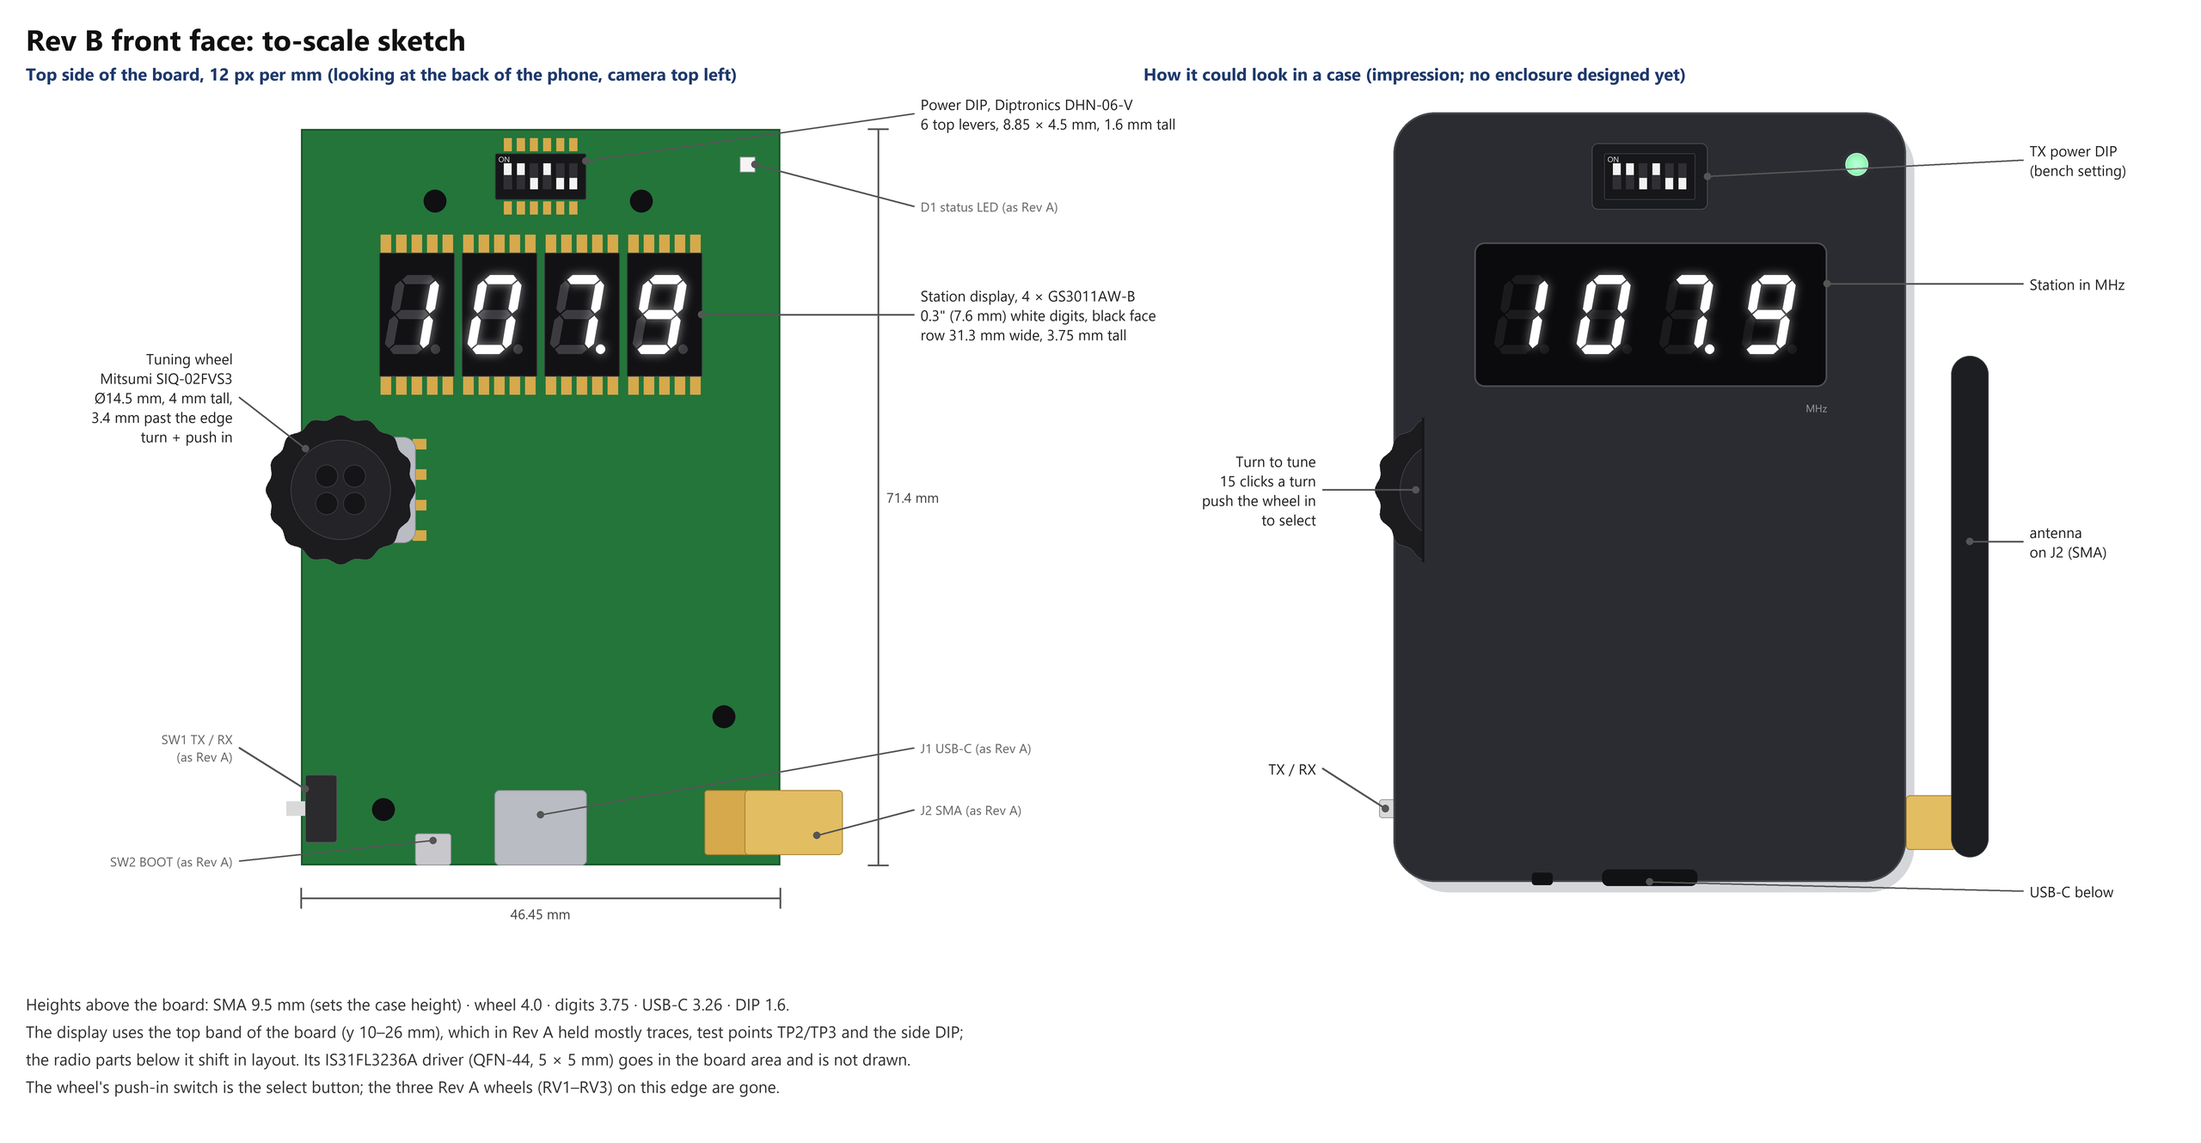
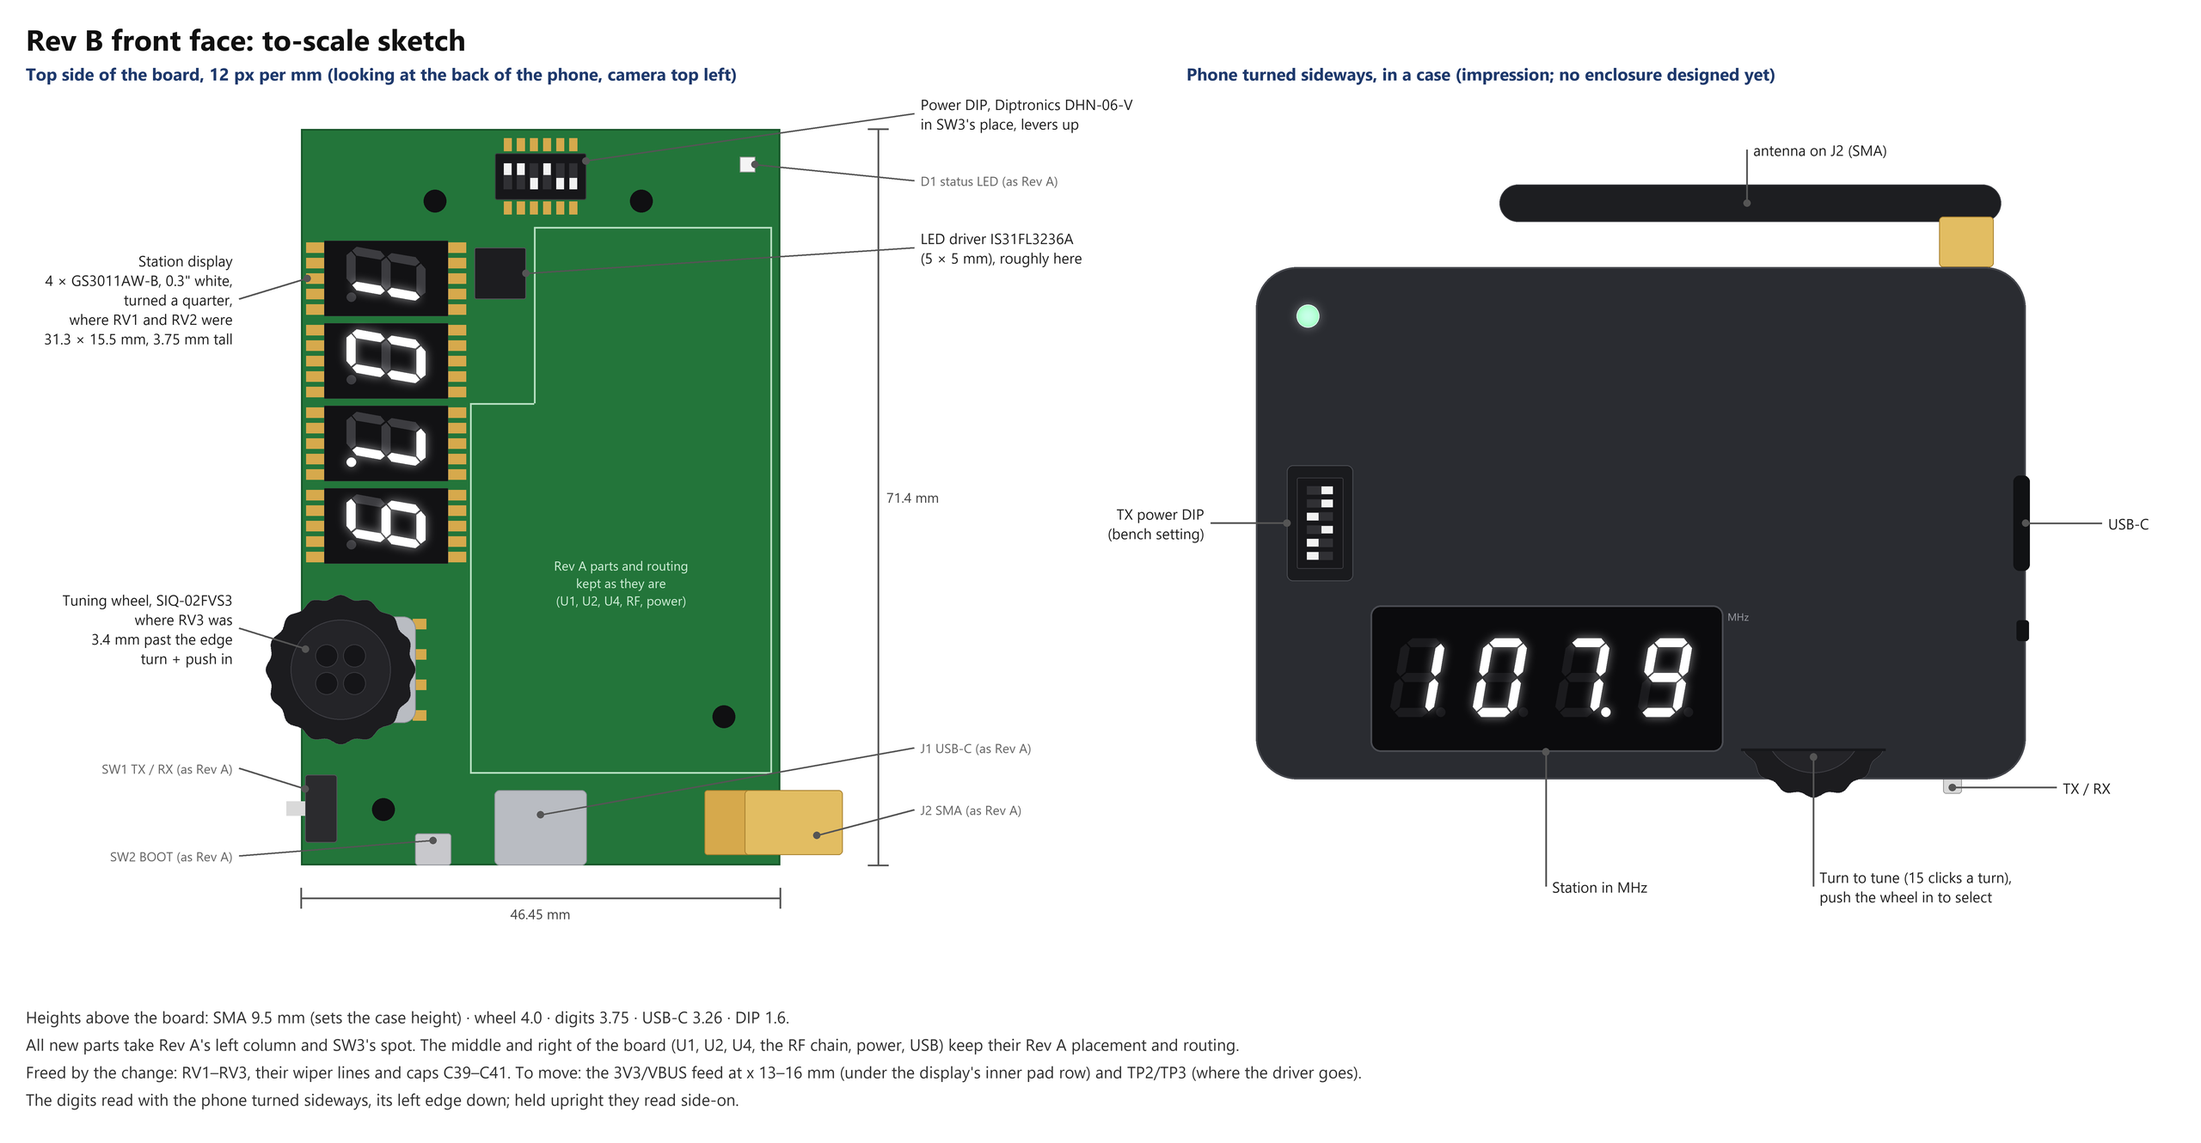
Rev B front face: new parts in Rev A's left column (digits turned where RV1/RV2 were, wheel at RV3, DIP at SW3), rest of the board kept

diff --git a/tools/rev_b_front_sketch.py b/tools/rev_b_front_sketch.py
@@ -1,7 +1,9 @@
 """Rev B front face: a to-scale sketch of the board's top side with the new tuning wheel, station display and power DIP,
-beside an impression of the finished unit. Sizes from the datasheets in docs/datasheets/rev-b (SIQ-02FVS3 p3,
-GS3011AW-B p2 and p5, DHN-06-V p1); the edge parts that stay (J1, J2, SW1, SW2, D1) and the mounting holes where
-Rev A has them. Usage: python tools/rev_b_front_sketch.py"""
+beside an impression of the finished unit held sideways. Sizes from the datasheets in docs/datasheets/rev-b
+(SIQ-02FVS3 p3, GS3011AW-B p2 and p5, DHN-06-V p1); the edge parts that stay (J1, J2, SW1, SW2, D1) and the mounting
+holes where Rev A has them. The new parts take Rev A's left column: the digits where RV1 and RV2 were, turned a quarter
+so they read with the phone sideways (board's left edge down), the wheel where RV3 was, the DIP where SW3 was.
+Usage: python tools/rev_b_front_sketch.py"""
 import math
 
 from PIL import Image, ImageChops, ImageDraw, ImageFilter, ImageFont
@@ -10,11 +12,12 @@ OUT = "design/rev-b/front-face-sketch.png"
 BW, BH = 46.45, 71.4                     # board, mm (Rev A envelope), from its top-left corner, y down
 K, SS = 12, 3                            # px per mm in the output; supersampling
 HOLES = [(13, 7), (33, 7), (41, 57), (8, 66)]
-PITCH, ROW_Y = 8.0, 18.0                 # digit pitch (body 7.30 wide), digit body centre line
-DIGITS = [BW / 2 + (i - 1.5) * PITCH for i in range(4)]
+PITCH, DX, DY = 8.0, 8.25, 26.5          # digit pitch (body 7.30 wide); display centre: pads 0.5-16.0 mm from the edge
+DIGITS = [DY + (i - 1.5) * PITCH for i in range(4)]
 SHOW, DP_AT = "1079", 2                  # 107.9
-DIP = (BW / 2, 4.6)                      # centre; pad rows 4.90 / 7.40 apart
-ENC = (3.85, 35.0)                       # dial centre: the frame's far end on the board edge, dial 3.4 mm past it
+DIP = (BW / 2, 4.6)                      # SW3's place; pad rows 4.90 / 7.40 apart
+ENC = (3.85, 52.44)                      # RV3's place; dial centre with the frame's far end on the board edge
+DRV = (19.3, 14.0)                       # IS31FL3236A, roughly
 SEGS = {"0": "ABCDEF", "1": "BC", "7": "ABC", "9": "ABCDFG"}
 GREEN, GOLD, SILVER, CASE = "#23753a", "#d6a94c", "#b9bcc2", "#2a2c31"
 LIT = "#f4f7ff"
@@ -25,11 +28,19 @@ def font(size, bold=False):
 
 
 class Panel:
-    def __init__(self, img, glow, ox, oy):
-        self.d, self.g, self.ox, self.oy = ImageDraw.Draw(img), ImageDraw.Draw(glow), ox, oy
+    """Draws in board millimetres. sideways: the view turned a quarter anticlockwise, the board's left edge down."""
+
+    def __init__(self, img, glow, ox, oy, sideways=False):
+        self.d, self.g, self.ox, self.oy, self.side = ImageDraw.Draw(img), ImageDraw.Draw(glow), ox, oy, sideways
 
     def p(self, x, y):
+        if self.side:
+            x, y = y, BW - x
         return ((self.ox + x * K) * SS, (self.oy + y * K) * SS)
+
+    def box(self, x0, y0, x1, y1):
+        (a, b), (c, d) = self.p(x0, y0), self.p(x1, y1)
+        return min(a, c), min(b, d), max(a, c), max(b, d)
 
     def poly(self, pts, fill, outline=None, width=0, glow=False):
         q = [self.p(*pt) for pt in pts]
@@ -38,61 +49,70 @@ class Panel:
             self.g.polygon(q, fill=255)
 
     def rect(self, x0, y0, x1, y1, fill, outline=None, width=1, r=0):
-        self.d.rounded_rectangle((*self.p(x0, y0), *self.p(x1, y1)), radius=r * K * SS, fill=fill, outline=outline,
+        self.d.rounded_rectangle(self.box(x0, y0, x1, y1), radius=r * K * SS, fill=fill, outline=outline,
                                  width=width * SS)
 
-    def circle(self, x, y, r, fill, outline=None, width=1):
-        self.d.ellipse((*self.p(x - r, y - r), *self.p(x + r, y + r)), fill=fill, outline=outline, width=width * SS)
+    def circle(self, x, y, r, fill, outline=None, width=1, glow=0):
+        self.d.ellipse(self.box(x - r, y - r, x + r, y + r), fill=fill, outline=outline, width=width * SS)
+        if glow:
+            self.g.ellipse(self.box(x - r, y - r, x + r, y + r), fill=glow)
 
     def text(self, x, y, s, size, fill="#222", bold=False, anchor="la"):
-        self.d.multiline_text(self.p(x, y), s, font=font(size, bold), fill=fill, anchor=anchor, spacing=4 * SS,
+        self.label(self.p(x, y), s, size, fill, bold, anchor)
+
+    def label(self, xy, s, size, fill="#222", bold=False, anchor="la"):
+        self.d.multiline_text(xy, s, font=font(size, bold), fill=fill, anchor=anchor, spacing=4 * SS,
                               align={"l": "left", "m": "center", "r": "right"}[anchor[0]])
 
-    def callout(self, at, to, s, size=17, fill="#222", bold=False):
-        """A leader from the part (mm) to the label (mm); the label sits left or right of its end by the leader's way."""
-        self.d.line([self.p(*at), self.p(*to)], fill="#555", width=2 * SS)
+    def callout(self, at, to, s, size=17, fill="#222"):
+        """A leader from the part to the label (both in board mm); the label sits beyond the leader's end."""
+        a, b = self.p(*at), self.p(*to)
+        self.d.line([a, b], fill="#555", width=2 * SS)
         self.circle(*at, 0.35, "#555")
-        right = to[0] >= at[0]
-        self.text(to[0] + (0.6 if right else -0.6), to[1], s, size, fill, bold, "lm" if right else "rm")
-        if "\n" in s:   # multi-line: centre the block on the leader
-            pass
+        right = b[0] >= a[0]
+        self.label((b[0] + (1 if right else -1) * 0.6 * K * SS, b[1]), s, size, fill, False, "lm" if right else "rm")
 
 
 def digit(pn, cx, cy, ch, dp, face, unlit, pads):
-    """GS3011AW-B: body 7.30 x 12.00, segments 4.22 x 7.62 slanted 10 degrees, DP 0.90; pads 1.0 x 3.0 at 1.5 pitch."""
+    """GS3011AW-B: body 7.30 x 12.00, segments 4.22 x 7.62 slanted 10 degrees, DP 0.90; pads 1.0 x 3.0 at 1.5 pitch.
+    Drawn in the digit's own frame (u right, v down), turned so its top faces the board's right edge."""
+    def put(pts):
+        return [(cx - v, cy + u) for u, v in pts]
+
+    def box(u0, v0, u1, v1):
+        return put([(u0, v0), (u1, v0), (u1, v1), (u0, v1)])
+
     if pads:
         for row in (-1, 1):
             for k in range(5):
-                x = cx + (k - 2) * 1.5
-                pn.rect(x - 0.5, cy + row * 6.25 - 1.5, x + 0.5, cy + row * 6.25 + 1.5, GOLD)
+                u = (k - 2) * 1.5
+                pn.poly(box(u - 0.5, row * 6.25 - 1.5, u + 0.5, row * 6.25 + 1.5), GOLD)
     if face:
-        pn.rect(cx - 3.65, cy - 6, cx + 3.65, cy + 6, face, "#3b3b3f", 1, 0.15)
+        pn.poly(box(-3.65, -6, 3.65, 6), face, "#3b3b3f", 0.4)
     w, h, t, g, sk = 4.22, 7.62, 0.85, 0.12, math.tan(math.radians(10))
-    bx = cx - 0.45
+    bu = -0.45
 
-    def put(pts):
-        return [(bx + x - y * sk, cy + y) for x, y in pts]
+    def slant(pts):
+        return put([(bu + u - v * sk, v) for u, v in pts])
 
-    def hseg(y0):
-        x1, x2 = -w / 2 + t / 2 + g, w / 2 - t / 2 - g
-        return [(x1, y0), (x1 + t / 2, y0 - t / 2), (x2 - t / 2, y0 - t / 2), (x2, y0), (x2 - t / 2, y0 + t / 2),
-                (x1 + t / 2, y0 + t / 2)]
+    def hseg(v0):
+        u1, u2 = -w / 2 + t / 2 + g, w / 2 - t / 2 - g
+        return [(u1, v0), (u1 + t / 2, v0 - t / 2), (u2 - t / 2, v0 - t / 2), (u2, v0), (u2 - t / 2, v0 + t / 2),
+                (u1 + t / 2, v0 + t / 2)]
 
-    def vseg(x0, y1, y2):
-        y1, y2 = y1 + g, y2 - g
-        return [(x0, y1), (x0 + t / 2, y1 + t / 2), (x0 + t / 2, y2 - t / 2), (x0, y2), (x0 - t / 2, y2 - t / 2),
-                (x0 - t / 2, y1 + t / 2)]
+    def vseg(u0, v1, v2):
+        v1, v2 = v1 + g, v2 - g
+        return [(u0, v1), (u0 + t / 2, v1 + t / 2), (u0 + t / 2, v2 - t / 2), (u0, v2), (u0 - t / 2, v2 - t / 2),
+                (u0 - t / 2, v1 + t / 2)]
 
-    top, bot, rx, lx = -h / 2 + t / 2, h / 2 - t / 2, w / 2 - t / 2, -w / 2 + t / 2
-    segs = {"A": hseg(top), "G": hseg(0), "D": hseg(bot), "B": vseg(rx, top, 0), "C": vseg(rx, 0, bot),
-            "F": vseg(lx, top, 0), "E": vseg(lx, 0, bot)}
+    top, bot, ru, lu = -h / 2 + t / 2, h / 2 - t / 2, w / 2 - t / 2, -w / 2 + t / 2
+    segs = {"A": hseg(top), "G": hseg(0), "D": hseg(bot), "B": vseg(ru, top, 0), "C": vseg(ru, 0, bot),
+            "F": vseg(lu, top, 0), "E": vseg(lu, 0, bot)}
     on = SEGS.get(ch, "")
     for name, pts in segs.items():
-        pn.poly(put(pts), LIT if name in on else unlit, glow=name in on)
-    (dx, dy), = put([(w / 2 + 0.75, h / 2 - 0.45)])
-    pn.circle(dx, dy, 0.45, LIT if dp else unlit)
-    if dp:
-        pn.g.ellipse((*pn.p(dx - 0.45, dy - 0.45), *pn.p(dx + 0.45, dy + 0.45)), fill=255)
+        pn.poly(slant(pts), LIT if name in on else unlit, glow=name in on)
+    (dx, dy), = slant([(w / 2 + 0.75, h / 2 - 0.45)])
+    pn.circle(dx, dy, 0.45, LIT if dp else unlit, glow=255 if dp else 0)
 
 
 def dial(pn, cx, cy):
@@ -124,16 +144,19 @@ def dip(pn, cx, cy, on=(1, 1, 0, 1, 0, 0), pads=True):
     for k in range(6):
         x = cx + (k - 2.5) * 1.27
         if pads:
-            for row in (-1, 1):
-                pn.rect(x - 0.38, cy + row * 2.45 - (1.25 if row < 0 else 0), x + 0.38,
-                        cy + row * 2.45 + (1.25 if row > 0 else 0), GOLD)
+            pn.rect(x - 0.38, cy - 3.7, x + 0.38, cy - 2.45, GOLD)
+            pn.rect(x - 0.38, cy + 2.45, x + 0.38, cy + 3.7, GOLD)
     pn.rect(cx - 4.425, cy - 2.25, cx + 4.425, cy + 2.25, "#17171a", "#3a3a3f", 1, 0.2)
     for k in range(6):
         x = cx + (k - 2.5) * 1.27
         pn.rect(x - 0.4, cy - 1.25, x + 0.4, cy + 1.25, "#303034")
         ly = cy - 1.25 if on[k] else cy + 0.15
         pn.rect(x - 0.36, ly, x + 0.36, ly + 1.1, "#f2f2f2")
-    pn.text(cx - 4.1, cy - 2.2, "ON", 9, "#e8e8e8")
+
+
+def display(pn, face, unlit, pads):
+    for i, y in enumerate(DIGITS):
+        digit(pn, DX, y, SHOW[i], i == DP_AT, face, unlit, pads)
 
 
 def board_view(pn):
@@ -148,10 +171,15 @@ def board_view(pn):
     pn.rect(39.1, 64.1, 45.45, 70.4, GOLD, "#a8802e", 1, 0.3)                                  # J2 SMA
     pn.rect(43.0, 64.1, 52.5, 70.4, "#e2bd62", "#a8802e", 1, 0.4)
     pn.rect(42.55, 2.7, 44.05, 4.2, "#f4f4f4", "#999", 1)                                       # D1
+    # Rev A's middle and right, left as routed
+    kept = [(22.6, 9.5), (BW - 0.8, 9.5), (BW - 0.8, 62.5), (16.4, 62.5), (16.4, 26.6), (22.6, 26.6)]
+    pn.d.polygon([pn.p(*q) for q in kept], outline="#b8e0c2", width=2 * SS)
+    pn.text((16.4 + BW - 0.8) / 2, 44, "Rev A parts and routing\nkept as they are\n(U1, U2, U4, RF, power)", 15,
+            "#cfeed7", anchor="mm")
     # new front-panel parts
+    pn.rect(DRV[0] - 2.5, DRV[1] - 2.5, DRV[0] + 2.5, DRV[1] + 2.5, "#1d1d20", "#55555a", 1, 0.2)
     dip(pn, *DIP)
-    for i, x in enumerate(DIGITS):
-        digit(pn, x, ROW_Y, SHOW[i], i == DP_AT, "#121214", "#3c3c40", True)
+    display(pn, "#121214", "#3c3c40", True)
     encoder(pn, *ENC)
     # board size
     y = BH + 3.2
@@ -169,26 +197,22 @@ def board_view(pn):
 def unit_view(pn):
     """Impression only: no enclosure is designed yet."""
     w = 1.6
-    pn.rect(-w + 0.8, -w + 1.0, BW + w + 0.8, BH + w + 1.0, "#d5d6da", r=4.5)                 # shadow
-    # antenna and SMA on the right side
-    pn.rect(BW + w, 64.6, BW + 6.5, 69.9, "#e2bd62", "#a8802e", 1, 0.4)
-    pn.rect(BW + 6.0, 22.0, BW + 9.6, 70.6, "#1d1e21", "#3c3d42", 1, 1.8)
+    pn.rect(BW + 6.0, 22.0, BW + 9.6, 70.6, "#1d1e21", "#3c3d42", 1, 1.8)                      # antenna
+    pn.rect(BW + w, 64.6, BW + 6.5, 69.9, "#e2bd62", "#a8802e", 1, 0.4)                        # SMA
     pn.rect(-w - 1.4, 65.0, -w + 0.2, 66.8, "#d9d9d9", "#999", 1, 0.3)                         # TX/RX slide
     pn.rect(-w, -w, BW + w, BH + w, CASE, "#45474d", 2, 4.0)
-    # wheel: its rim through a slot in the left side
+    # wheel: its rim through a slot in the side
     dial(pn, *ENC)
     pn.rect(ENC[0] - 2.6, ENC[1] - 7.6, ENC[0] + 7.6, ENC[1] + 7.6, CASE)
     pn.d.line([pn.p(ENC[0] - 2.6, ENC[1] - 7.0), pn.p(ENC[0] - 2.6, ENC[1] + 7.0)], fill="#16171a", width=3 * SS)
     # display window
-    pn.rect(DIGITS[0] - 5.0, ROW_Y - 7.0, DIGITS[-1] + 5.2, ROW_Y + 7.0, "#0b0b0d", "#4a4c52", 2, 1.0)
-    for i, x in enumerate(DIGITS):
-        digit(pn, x, ROW_Y, SHOW[i], i == DP_AT, None, "#1b1b1e", False)
-    pn.text(DIGITS[-1] + 5.2, ROW_Y + 8.4, "MHz", 12, "#9a9ca3", anchor="ra")
-    # DIP in a recess, status LED light pipe, ports in the bottom wall
+    pn.rect(DX - 7.2, DIGITS[0] - 5.0, DX + 7.0, DIGITS[-1] + 5.2, "#0b0b0d", "#4a4c52", 2, 1.0)
+    display(pn, None, "#1b1b1e", False)
+    pn.text(DX + 6.6, DIGITS[-1] + 5.6, "MHz", 12, "#9a9ca3", anchor="la")
+    # DIP in a recess, status LED light pipe, ports in the end wall
     pn.rect(DIP[0] - 5.6, DIP[1] - 3.2, DIP[0] + 5.6, DIP[1] + 3.2, "#1a1b1e", "#4a4c52", 1, 0.6)
     dip(pn, *DIP, pads=False)
-    pn.circle(43.3, 3.45, 1.1, "#7fe0a0", "#bff0cf", 1)
-    pn.g.ellipse((*pn.p(42.6, 2.75), *pn.p(44.0, 4.15)), fill=150)
+    pn.circle(43.3, 3.45, 1.1, "#7fe0a0", "#bff0cf", 1, glow=150)
     pn.rect(BW / 2 - 4.6, BH + w - 1.2, BW / 2 + 4.6, BH + w + 0.4, "#111214", r=0.6)
     pn.rect(11.8, BH + w - 0.9, 13.8, BH + w + 0.3, "#111214", r=0.3)
 
@@ -201,31 +225,35 @@ def main():
     d.text((30 * SS, 22 * SS), "Rev B front face: to-scale sketch", font=font(34, True), fill="#111")
     d.text((30 * SS, 72 * SS), "Top side of the board, 12 px per mm (looking at the back of the phone, camera top left)",
            font=font(20, True), fill="#1f3a6d")
-    d.text((1330 * SS, 72 * SS), "How it could look in a case (impression; no enclosure designed yet)",
+    d.text((1380 * SS, 72 * SS), "Phone turned sideways, in a case (impression; no enclosure designed yet)",
            font=font(20, True), fill="#1f3a6d")
 
     a = Panel(img, glow, 350, 150)
     board_view(a)
     a.callout((DIP[0] + 4.4, DIP[1] - 1.5), (BW + 13, -1.5),
-              "Power DIP, Diptronics DHN-06-V\n6 top levers, 8.85 × 4.5 mm, 1.6 mm tall")
-    a.callout((DIGITS[-1] + 3.6, ROW_Y), (BW + 13, ROW_Y),
-              "Station display, 4 × GS3011AW-B\n0.3\" (7.6 mm) white digits, black face\nrow 31.3 mm wide, 3.75 mm tall")
-    a.callout((ENC[0] - 3.4, ENC[1] - 4.0), (-6.0, ENC[1] - 9.0),
-              "Tuning wheel\nMitsumi SIQ-02FVS3\nØ14.5 mm, 4 mm tall,\n3.4 mm past the edge\nturn + push in")
-    a.callout((44.0, 3.45), (BW + 13, 7.5), "D1 status LED (as Rev A)", 15, "#666")
-    a.callout((0.4, 64.0), (-6.0, 60.0), "SW1 TX / RX\n(as Rev A)", 15, "#666")
-    a.callout((12.8, 69.0), (-6.0, 71.0), "SW2 BOOT (as Rev A)", 15, "#666")
+              "Power DIP, Diptronics DHN-06-V\nin SW3's place, levers up")
+    a.callout((44.0, 3.45), (BW + 13, 5.0), "D1 status LED (as Rev A)", 15, "#666")
+    a.callout((DRV[0] + 2.5, DRV[1]), (BW + 13, 11.5),
+              "LED driver IS31FL3236A\n(5 × 5 mm), roughly here")
+    a.callout((0.6, DIGITS[0]), (-6.0, DIGITS[0] + 2),
+              "Station display\n4 × GS3011AW-B, 0.3\" white,\nturned a quarter,\nwhere RV1 and RV2 were\n"
+              "31.3 × 15.5 mm, 3.75 mm tall")
+    a.callout((ENC[0] - 3.4, ENC[1] - 2.0), (-6.0, ENC[1] - 4.0),
+              "Tuning wheel, SIQ-02FVS3\nwhere RV3 was\n3.4 mm past the edge\nturn + push in")
+    a.callout((0.4, 64.0), (-6.0, 62.0), "SW1 TX / RX (as Rev A)", 15, "#666")
+    a.callout((12.8, 69.0), (-6.0, 70.5), "SW2 BOOT (as Rev A)", 15, "#666")
     a.callout((BW / 2, 66.5), (BW + 13, 60.0), "J1 USB-C (as Rev A)", 15, "#666")
     a.callout((50.0, 68.5), (BW + 13, 66.0), "J2 SMA (as Rev A)", 15, "#666")
 
-    b = Panel(img, glow, 1640, 150)
+    b = Panel(img, glow, 1480, 330, sideways=True)
     unit_view(b)
-    b.callout((ENC[0] - 3.3, ENC[1]), (-8.5, ENC[1]), "Turn to tune\n15 clicks a turn\npush the wheel in\nto select", 17)
-    b.callout((DIGITS[-1] + 5.2, ROW_Y - 3.0), (BW + 13, ROW_Y - 3.0), "Station in MHz", 17)
-    b.callout((DIP[0] + 5.6, DIP[1]), (BW + 13, 3.0), "TX power DIP\n(bench setting)", 17)
-    b.callout((BW + 7.8, 40.0), (BW + 13, 40.0), "antenna\non J2 (SMA)", 17)
-    b.callout((-2.4, 65.9), (-8.5, 62.0), "TX / RX", 17)
-    b.callout((BW / 2, BH + 1.6), (BW + 13, BH + 2.5), "USB-C below", 17)
+    b.callout((ENC[0] - 3.3, ENC[1]), (-12.0, ENC[1]), "Turn to tune (15 clicks a turn),\npush the wheel in to select",
+              17)
+    b.callout((DX - 7.2, DY), (-12.0, DY), "Station in MHz", 17)
+    b.callout((DIP[0], DIP[1] - 3.2), (DIP[0], -6.0), "TX power DIP\n(bench setting)", 17)
+    b.callout((BW + 7.8, 46.0), (BW + 13, 46.0), "antenna on J2 (SMA)", 17)
+    b.callout((-2.4, 65.9), (-2.4, 76.0), "TX / RX", 17)
+    b.callout((BW / 2, BH + 1.6), (BW / 2, BH + 9.0), "USB-C", 17)
 
     glow = glow.filter(ImageFilter.GaussianBlur(SS * K * 0.45))
     halo = glow.point(lambda v: int(v * 0.5))
@@ -233,14 +261,14 @@ def main():
     d = ImageDraw.Draw(img)
     notes = [
         "Heights above the board: SMA 9.5 mm (sets the case height) · wheel 4.0 · digits 3.75 · USB-C 3.26 · DIP 1.6.",
-        "The display uses the top band of the board (y 10–26 mm), which in Rev A held mostly traces, test points TP2/TP3 "
-        "and the side DIP;",
-        "the radio parts below it shift in layout. Its IS31FL3236A driver (QFN-44, 5 × 5 mm) goes in the board area "
-        "and is not drawn.",
-        "The wheel's push-in switch is the select button; the three Rev A wheels (RV1–RV3) on this edge are gone.",
+        "All new parts take Rev A's left column and SW3's spot. The middle and right of the board (U1, U2, U4, the RF "
+        "chain, power, USB) keep their Rev A placement and routing.",
+        "Freed by the change: RV1–RV3, their wiper lines and caps C39–C41. To move: the 3V3/VBUS feed at x 13–16 mm "
+        "(under the display's inner pad row) and TP2/TP3 (where the driver goes).",
+        "The digits read with the phone turned sideways, its left edge down; held upright they read side-on.",
     ]
     for i, s in enumerate(notes):
-        d.text((30 * SS, (1155 + i * 32) * SS), s, font=font(19), fill="#333")
+        d.text((30 * SS, (1170 + i * 32) * SS), s, font=font(19), fill="#333")
     img = img.resize((W, H), Image.LANCZOS)
     img.save(OUT)
     print("written", OUT)

diff --git a/design/rev-b/front-panel.md b/design/rev-b/front-panel.md
@@ -27,3 +27,10 @@ Replaces Rev A's three thumbwheel pots (RV1–RV3) and the out-of-stock side-lev
 
 At 3 mA a segment, "107.9" lights 21 segments: about 65 mA from VBUS, plus about 9 mA for the driver. Firmware sets the
 brightness, and the display stays well inside the 500 mA available after USB set-up.
+
+## Placement (sketch: `front-face-sketch.png`, user 2026-11-06)
+
+The new parts take Rev A's left column, so the middle and right of the board keep their Rev A placement and routing:
+the four digits where RV1 and RV2 were, turned a quarter so they read with the phone sideways (its left edge down);
+the wheel where RV3 was; the DIP where SW3 was; the driver beside the display's top, where TP2 and TP3 were. To move:
+the 3V3/VBUS feed at x 13–16 mm from the left edge (under the display's inner pad row).
